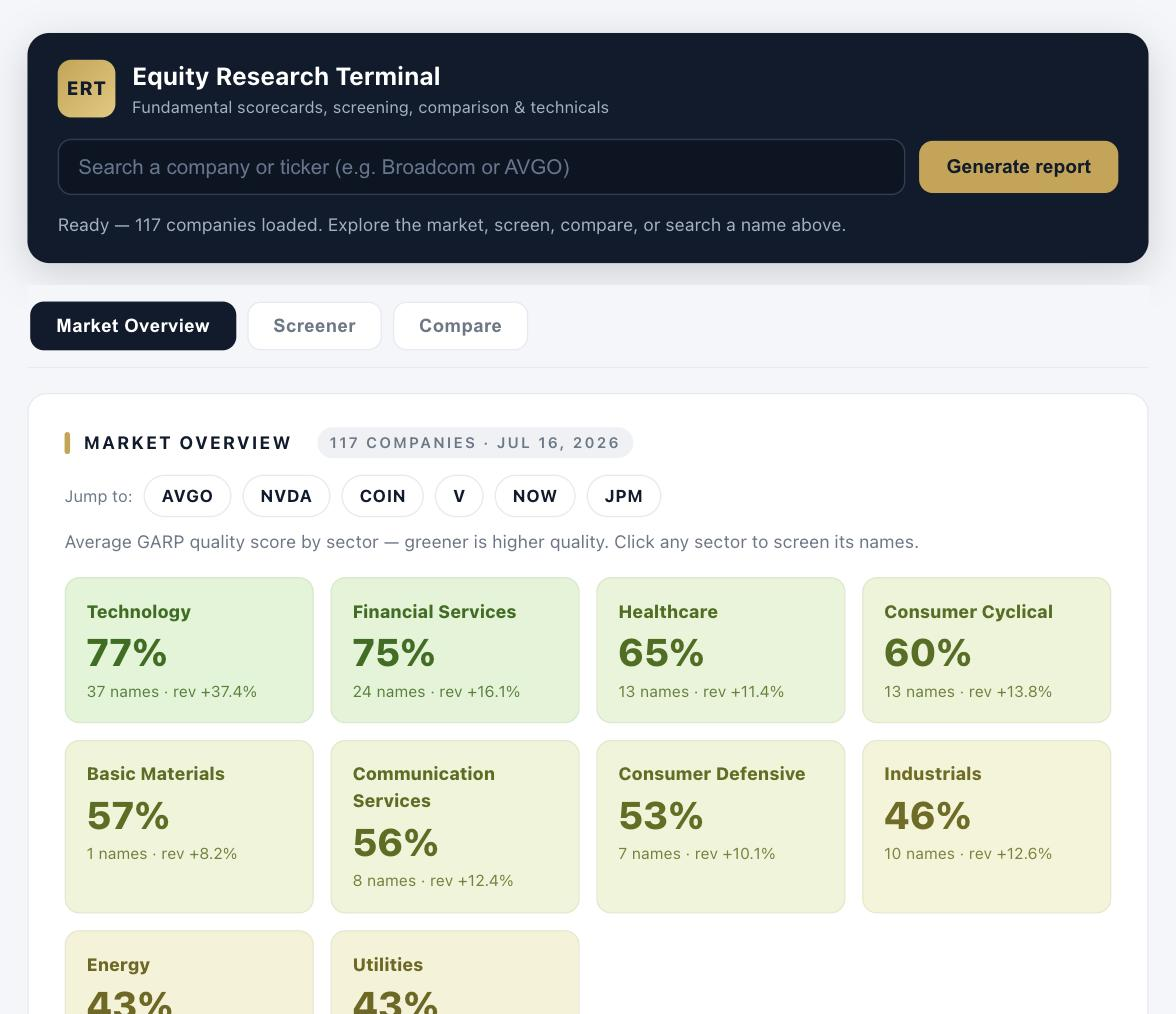
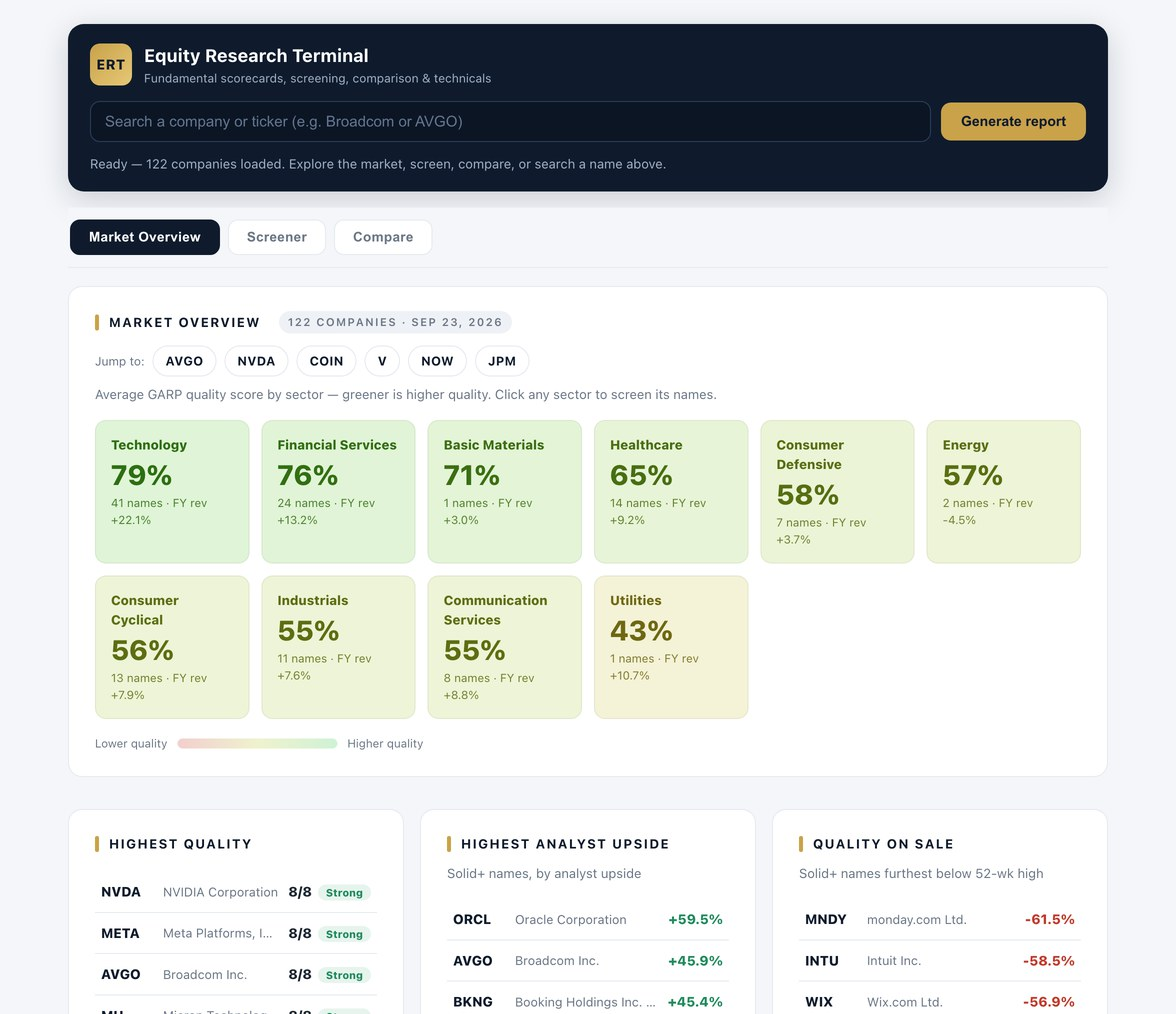
docs: README validation text and screenshots match the current pipeline
- The skills table and the validation paragraph said bounds checks gate the
  refresh. Only reconciliation checks do (now listing free cash flow against
  operating cash flow and capex, and the coverage guard); bounds checks and
  source-data oddities are warnings.
- Both README screenshots are re-rendered from the current code and data (headless
  Chrome, same 1176x1014 frame). The research shot showed the old scorecard:
  "Revenue Growth YoY" on a single quarter, the vendor FCF margin, and Rule of 40
  mixing periods.

diff --git a/README.md b/README.md
@@ -31,7 +31,7 @@ A live, single-page **equity research terminal** covering the US large-cap unive
 | `pipeline/build_events.py` — SEC EDGAR filings pipeline; Deal Radar built from 8-K item codes, S-4/425, 13D/G | M&A awareness, working with primary sources |
 | Deterministic GARP scorecard — 8 pass/fail criteria per company | Financial statement analysis |
 | Sector-relative implied valuation — peer-median EV/EBITDA & forward P/E repricing | Relative valuation (comps) |
-| CI-gated e2e test + [data validation](docs/validation-report.md) — reconciliation & bounds checks gate every refresh | Accuracy, reconciliation & attention to detail |
+| CI-gated e2e test + [data validation](docs/validation-report.md) — every derived figure, including free cash flow against operating cash flow and capex, must reconcile to its inputs before a refresh is committed; outliers are flagged | Accuracy, reconciliation & attention to detail |
 | Sector heatmap, screener, leaderboards, side-by-side compare | BI dashboards & data visualization |
 | [Excel valuation workbook](docs/valuation-models.xlsx) — 5-yr DCF + trading comps, named ranges, sensitivity table | Advanced Excel & financial modeling |
 | SQLite snapshot (`terminal.db`) + [windowed analytical queries](sql/queries.sql) | SQL |
@@ -137,10 +137,12 @@ node tests/e2e.cjs
 The CI workflow runs it after every data refresh — if the data or the app breaks,
 nothing gets committed.
 
-A separate validation step (`pipeline/validate_data.py`) reconciles every derivable field against its
-inputs (analyst upside, implied upside, EV/FCF, margins vs. reported revenue), bounds-checks
-the rest, and hard-fails the workflow on anomalies. Each run's findings are committed as
-[docs/validation-report.md](docs/validation-report.md).
+A separate validation step (`pipeline/validate_data.py`) recomputes every derived field from its
+stored inputs — analyst and implied upside, distance from the 52-week high, EV/FCF, free cash flow
+from operating cash flow and capex, each FCF margin from its own period's revenue — and hard-fails
+the workflow on any mismatch, or when a statement-derived field goes missing across the universe.
+Bounds checks and source-data oddities are reported as warnings. Each run's findings are committed
+as [docs/validation-report.md](docs/validation-report.md).
 
 ## Stack
 
